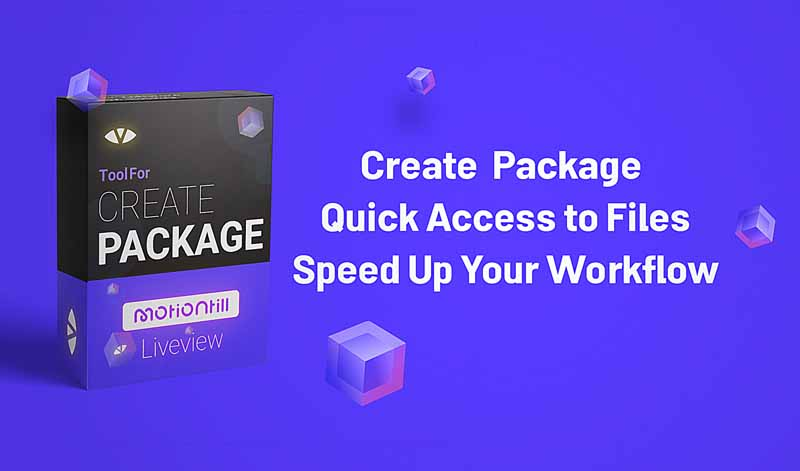
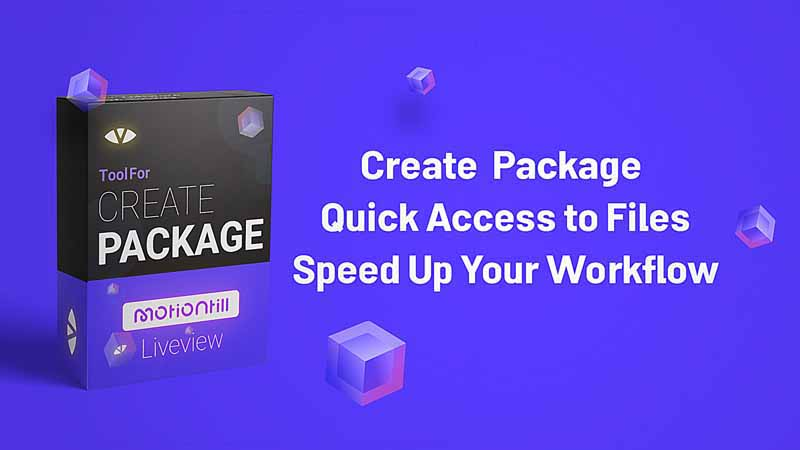
style changed better
Fonts added on google fonts

diff --git a/assets/css/style.css b/assets/css/style.css
@@ -1,31 +1,8 @@
-@font-face {
-    font-family: ac;
-    src: url(/assets/fonts/Ap-Light-english.woff2);
-    font-weight: light;
-}
-
-@font-face {
-    font-family: ac;
-    src: url(/assets/fonts/Ap-Bold-english.woff2);
-    font-weight: bold;
-}
-
-@font-face {
-    font-family: ac;
-    src: url(/assets/fonts/Ap-Medium-english.woff2);
-    font-weight: 500;
-}
-
-@font-face {
-    font-family: ac;
-    src: url(/assets/fonts/Ap-Regular-english.woff2);
-    font-weight: normal;
-}
-
+@import url('https://fonts.googleapis.com/css2?family=Roboto:ital,wght@0,100;0,300;0,400;0,500;0,700;0,900;1,100;1,300;1,400;1,500;1,700;1,900&display=swap');
 
 body {
     margin: 0;
-    font-family: ac, Verdana, Geneva, Tahoma, sans-serif
+    font-family:"Roboto",  sans-serif;
 }
 
 img {
@@ -42,6 +19,7 @@ h1{
     margin: 0 auto;
 }
 *{
+    font-family:"Roboto",  sans-serif;
     color: #5c5c64;
     box-sizing: border-box;
     direction: ltr;
@@ -182,22 +160,33 @@ opacity: .99;
      }
 }
 #feature-image{
+    box-sizing: border-box;
     display: block;
     margin: auto;
+    padding: 2rem;
+    background-color: white;
+    filter: drop-shadow(0 0 0.2rem rgba(0, 0, 0.5, 0.05));
+    margin-bottom:1.5rem ;
 }
 #excerept{
+    color: #96969b;
     display: block;
     text-align: center;
+    padding:.5rem 2.5rem;
+    border-bottom:1px solid #89898f17;
+    margin-bottom: 1rem;
 }
 .grid-container{
    display:grid;
-   gap:.5rem;
+   gap:1.5rem;
    grid-template-columns: repeat(2, 1fr);
 align-items: stretch;
 align-self: start;
+filter: drop-shadow(0 0 .21rem rgba(0, 0, 0, 0.062));
 }
 /***********.category-item ***********/
     .category-item{
+        padding: 1rem;
         display: inline-block;
        box-sizing: border-box;
        max-height: fit-content;
@@ -206,16 +195,16 @@ align-self: start;
         box-shadow: 0 0 3rem rgba(0, 0, 0, 0.11);
         display: flex;
         flex-direction: column;
-        gap: .0rem;
+        gap: 1.0rem;
     }
     .category-item h2{
-        padding: 0 .9rem ;
+        font-size: 1rem;
+        padding: 0 .0rem ;
         height: auto;
     }
     .category-item p{
-        font-size: .8rem;
-        padding:1rem ;
-     
+        font-size: .0rem;
+        padding:0rem ;
         height: auto;
 
     }

diff --git a/assets/templates/aside_01.html b/assets/templates/aside_01.html
@@ -18,7 +18,7 @@
     <a id="side-video-btn-2" href="---"><img id="side-feature-image" src="/assets/images/posts/Run-Script-On-Adobe-Applications.jpg" alt=""></a>
     <p style="text-align: center;">Watch the Video Tutorial Download Dependency Files Below</p>
     <a id="side-download-btn" href="---" class="btn-blue big-font" title="Download Related File" download>Download</a>
-    <a id="side-video-btn" href="---" class="btn-red big-font" title="See the full video tutorial">Video Link</a>
+    <a id="side-video-btn" href="---" class="btn-red big-font" title="See the full video tutorial" target="_blank">Video Link</a>
 </section>
 
 <section  class="aside" >
@@ -37,7 +37,7 @@
     <a href="https://www.youtube.com/@Motiontill?%20sub_confirmation=1" class="btn-red round">Follow On Youtube</a>
 </section>
 
-<section class="aside" >
+<!-- <section class="aside" >
     <div class="grid-container"
         style="text-align: center; background-color: rgba(0, 0, 0, 0.1);padding:.5rem .3rem ;border-radius:.5rem;">
 
@@ -48,8 +48,8 @@
 
 
     </div>
-</section>
-
+</section> -->
+<!-- 
 <section class="aside" >
     <p>Share This Article In Social: </p>
     <div class="row-container">
@@ -59,7 +59,7 @@
         <a href="https://www.linkedin.com/sharing/share-offsite/?url=https://www.motiontill.com"  title="Share This Page" target="_blank"><img width="30px" src="/assets/images/linkedin.png" alt=""></a>
     </div>
 
-</section>
+</section> -->
 
 
 

diff --git a/assets/js/main.js b/assets/js/main.js
@@ -66,18 +66,20 @@ class Controll {
 }
 
 const obj = {
+    "nav": {
+        "template": "/assets/templates/nav_01.html"
+    },
     "header": {
         "template": "/assets/templates/header_01.html"
     },
     "aside": {
         "template": "/assets/templates/aside_01.html"
     },
-    "nav": {
-        "template": "/assets/templates/nav_01.html"
-    },
+
     "footer": {
         "template": "/assets/templates/footer_01.html"
-    }
+    },
+
 }
 const pages = {
     "01": {

diff --git a/assets/templates/category_01.html b/assets/templates/category_01.html
@@ -2,6 +2,6 @@
 <article >
     <img src="[[img-url]]" alt="[[alt]]">
     <h2>[[title]]</h2>
-    <p>[[excerept]]</p>
+    <!-- <p>[[excerept]]</p> -->
 </article>
 </a>

diff --git a/assets/templates/nav_01.html b/assets/templates/nav_01.html
@@ -38,6 +38,7 @@
 
     .dropdown:hover .dropdowncontent {
         display: flex;
+        z-index: 10;
     }
 
     .dropdowncontent>a {
